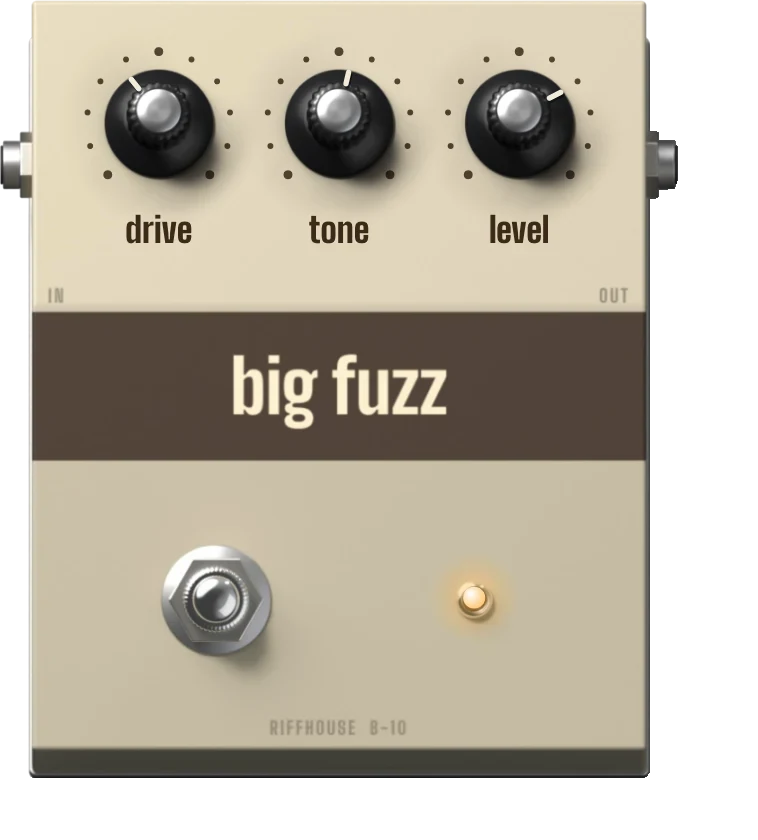
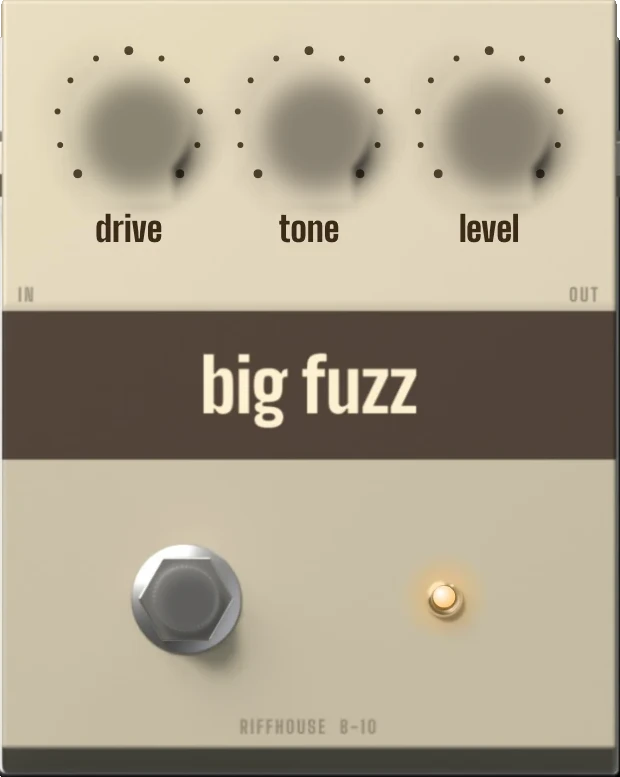
Website: build the first-screen pedal as a real box
The pedal's sides were twelve copies of its picture stacked 36px deep, and
its knobs were painted on, so it looked flat as soon as it turned. It is now a
box with depth: four walls and a back, three knobs and the footswitch standing
up as lit cylinders, jacks on the sides, and an LED that lights with the fuzz.
The footswitch sinks when the pedal is pressed. hero_pedal.py paints the knobs
out of the face and cuts their tops into hero-caps.webp.

The gear tiles tilted toward the pointer as flat pictures too; they now lift.

diff --git a/site/styles.css b/site/styles.css
@@ -23,6 +23,9 @@
   --ash-dark: #57534c;
   --coal: #15100a;
   --field-edge: #77726a;
+  --case: #e9dec4;
+  --case-2: #cdc1a3;
+  --case-3: #a89c80;
 
   --font-display: "Big Shoulders", "Big Shoulders Fallback", "Arial Narrow", sans-serif;
   --font-text: "Instrument Sans", "Segoe UI", "Helvetica Neue", Arial, sans-serif;
@@ -119,25 +122,71 @@ button.btn { border: 0; cursor: pointer; }
 .hero-say .lead { font-weight: 500; max-width: 26em; }
 .defs { position: absolute; }
 .hero-pedal { border: 0; padding: 0; background: none; cursor: pointer; -webkit-tap-highlight-color: transparent; display: block; }
-/* The pedal is a solid object: a face, twelve copies of its shape stacked behind it as sides, light on top, and its dark patch on the page.
+/* The pedal is a real box, in face pixels (--u is one of them): the face is 620 by 777 and the box is
+   223 deep. Knobs, footswitch and jacks are cylinders of twenty strips, lit from the upper left.
    --tx and --ty run from -1 to 1 with the pointer. */
-.hero-pedal { perspective: 1100px; }
-.pedal-in, .pedal-turn, .pedal-body, .pedal-sides { display: block; transform-style: preserve-3d; }
-.pedal-body { position: relative; transform: rotateX(calc(9deg + var(--ty, 0) * -13deg)) rotateY(calc(-17deg + var(--tx, 0) * 17deg)) translateZ(var(--pz, 0px)); transition: transform 260ms var(--ease); }
-.hero-pedal:active .pedal-body, .hero-pedal.is-down .pedal-body { --pz: -26px; transition-duration: 90ms; }
-.pedal-body img { position: relative; display: block; width: 100%; height: auto; }
-.pedal-sides, .slab, .pedal-light, .pedal-ground { position: absolute; inset: 0; pointer-events: none; }
-.slab { background: url(img/hero-side.webp) center / 100% 100% no-repeat; transform: translateZ(calc(var(--k) * -3px)); }
-.slab:nth-child(1) { --k: 1; } .slab:nth-child(2) { --k: 2; } .slab:nth-child(3) { --k: 3; } .slab:nth-child(4) { --k: 4; } .slab:nth-child(5) { --k: 5; } .slab:nth-child(6) { --k: 6; } .slab:nth-child(7) { --k: 7; } .slab:nth-child(8) { --k: 8; } .slab:nth-child(9) { --k: 9; } .slab:nth-child(10) { --k: 10; } .slab:nth-child(11) { --k: 11; } .slab:nth-child(12) { --k: 12; }
-.pedal-light { transform: translateZ(1px); overflow: hidden; -webkit-mask: url(img/hero-pedal.webp) center / 100% 100% no-repeat; mask: url(img/hero-pedal.webp) center / 100% 100% no-repeat; }
+.hero-pedal { perspective: 1300px; container-type: inline-size; }
+.pedal-in, .pedal-turn, .pedal-body, .pedal-box, .pedal-parts, .pd-wall, .pd-cyl { display: block; transform-style: preserve-3d; }
+.pedal-body { --u: calc(100cqw / 620); --d: calc(223 * var(--u)); position: relative; transform: rotateX(calc(14deg + var(--ty, 0) * -16deg)) rotateY(calc(-24deg + var(--tx, 0) * 22deg)) translateZ(var(--pz, 0px)); transition: transform 260ms var(--ease); }
+.hero-pedal:active .pedal-body, .hero-pedal.is-down .pedal-body { --pz: -8px; transition-duration: 90ms; }
+.pedal-body img { position: relative; display: block; width: 100%; height: auto; border-radius: calc(6 * var(--u)); }
+.pedal-box, .pedal-parts, .pedal-light, .pedal-ground { position: absolute; inset: 0; pointer-events: none; }
+.pd-wall, .pd-back { position: absolute; }
+.pd-wall-t, .pd-wall-b { left: 0; right: 0; height: var(--d); }
+.pd-wall-l, .pd-wall-r { top: 0; bottom: 0; width: var(--d); }
+.pd-wall-t { top: 0; transform-origin: 50% 0; transform: rotateX(-90deg); background: var(--case); }
+.pd-wall-b { bottom: 0; transform-origin: 50% 100%; transform: rotateX(90deg); background: var(--case-3); }
+.pd-wall-l { left: 0; transform-origin: 0 50%; transform: rotateY(90deg); background: var(--case-2); }
+.pd-wall-r { right: 0; transform-origin: 100% 50%; transform: rotateY(-90deg); background: var(--case-3); }
+.pd-wall::after { content: ""; position: absolute; background: var(--panel-2); }
+.pd-wall-t::after, .pd-wall-b::after { left: 0; right: 0; height: 13%; }
+.pd-wall-t::after { bottom: 0; } .pd-wall-b::after { top: 0; }
+.pd-wall-l::after, .pd-wall-r::after { top: 0; bottom: 0; width: 13%; }
+.pd-wall-l::after { right: 0; } .pd-wall-r::after { left: 0; }
+.pd-back { inset: 0; transform: translateZ(calc(var(--d) * -1)); background: var(--panel-2); }
+.pd-cyl { position: absolute; left: calc((var(--x) - var(--r)) * var(--u)); top: calc((var(--y) - var(--r)) * var(--u)); width: calc(var(--r) * 2 * var(--u)); aspect-ratio: 1; transform: translateZ(calc(var(--z, 0) * var(--u))); }
+.pd-cyl > i { position: absolute; left: 50%; top: 50%; width: calc(var(--r) * .33 * var(--u)); height: calc(var(--h) * var(--u)); margin-left: calc(var(--r) * -.165 * var(--u)); transform-origin: 50% 0; background: color-mix(in srgb, var(--hi) var(--s), var(--lo)); }
+.pd-cyl > b { position: absolute; inset: 0; border-radius: 50%; transform: translateZ(calc(var(--h) * var(--u))); }
+.pd-knob { --lo: var(--black); --hi: var(--ash-dark); }
+.pd-knob > b { background: var(--black); }
+.pd-knob > b::after { content: ""; position: absolute; left: 50%; top: 3%; width: 4%; height: 22%; margin-left: -2%; border-radius: 2px; background: var(--bone); transform-origin: 50% 214%; rotate: var(--a); }
+.pd-cap { --lo: var(--black); --hi: var(--ash-dark); }
+.pd-cap > b, .pd-stomp > b { background: url(img/hero-caps.webp) calc(var(--i) * 100% / 3) 0 / 400% 100% no-repeat; }
+.pd-stomp { --lo: var(--ash-dark); --hi: var(--bone); transition: transform 90ms var(--ease); }
+.hero-pedal:active .pd-stomp, .hero-pedal.is-down .pd-stomp { transform: translateZ(calc(-14 * var(--u))); }
+.pd-plug { --lo: var(--black); --hi: var(--ash); transform: rotateY(180deg); }
+.pd-plug > b { background: var(--black); border: calc(6 * var(--u)) solid var(--ash); }
+.pd-led { position: absolute; left: calc(431 * var(--u)); top: calc(584 * var(--u)); width: calc(28 * var(--u)); aspect-ratio: 1; border-radius: 50%; background: var(--amber); filter: blur(calc(9 * var(--u))); opacity: .2; transform: translateZ(2px); transition: opacity 120ms var(--ease); }
+.is-fuzz .pd-led { opacity: .9; }
+.pd-cyl > i:nth-child(1) { --s: 8%; transform: rotateZ(0deg) translateY(calc(var(--r) * var(--u))) rotateX(90deg); }
+.pd-cyl > i:nth-child(2) { --s: 8%; transform: rotateZ(18deg) translateY(calc(var(--r) * var(--u))) rotateX(90deg); }
+.pd-cyl > i:nth-child(3) { --s: 8%; transform: rotateZ(36deg) translateY(calc(var(--r) * var(--u))) rotateX(90deg); }
+.pd-cyl > i:nth-child(4) { --s: 8%; transform: rotateZ(54deg) translateY(calc(var(--r) * var(--u))) rotateX(90deg); }
+.pd-cyl > i:nth-child(5) { --s: 27%; transform: rotateZ(72deg) translateY(calc(var(--r) * var(--u))) rotateX(90deg); }
+.pd-cyl > i:nth-child(6) { --s: 46%; transform: rotateZ(90deg) translateY(calc(var(--r) * var(--u))) rotateX(90deg); }
+.pd-cyl > i:nth-child(7) { --s: 63%; transform: rotateZ(108deg) translateY(calc(var(--r) * var(--u))) rotateX(90deg); }
+.pd-cyl > i:nth-child(8) { --s: 73%; transform: rotateZ(126deg) translateY(calc(var(--r) * var(--u))) rotateX(90deg); }
+.pd-cyl > i:nth-child(9) { --s: 78%; transform: rotateZ(144deg) translateY(calc(var(--r) * var(--u))) rotateX(90deg); }
+.pd-cyl > i:nth-child(10) { --s: 75%; transform: rotateZ(162deg) translateY(calc(var(--r) * var(--u))) rotateX(90deg); }
+.pd-cyl > i:nth-child(11) { --s: 66%; transform: rotateZ(180deg) translateY(calc(var(--r) * var(--u))) rotateX(90deg); }
+.pd-cyl > i:nth-child(12) { --s: 51%; transform: rotateZ(198deg) translateY(calc(var(--r) * var(--u))) rotateX(90deg); }
+.pd-cyl > i:nth-child(13) { --s: 32%; transform: rotateZ(216deg) translateY(calc(var(--r) * var(--u))) rotateX(90deg); }
+.pd-cyl > i:nth-child(14) { --s: 11%; transform: rotateZ(234deg) translateY(calc(var(--r) * var(--u))) rotateX(90deg); }
+.pd-cyl > i:nth-child(15) { --s: 8%; transform: rotateZ(252deg) translateY(calc(var(--r) * var(--u))) rotateX(90deg); }
+.pd-cyl > i:nth-child(16) { --s: 8%; transform: rotateZ(270deg) translateY(calc(var(--r) * var(--u))) rotateX(90deg); }
+.pd-cyl > i:nth-child(17) { --s: 8%; transform: rotateZ(288deg) translateY(calc(var(--r) * var(--u))) rotateX(90deg); }
+.pd-cyl > i:nth-child(18) { --s: 8%; transform: rotateZ(306deg) translateY(calc(var(--r) * var(--u))) rotateX(90deg); }
+.pd-cyl > i:nth-child(19) { --s: 8%; transform: rotateZ(324deg) translateY(calc(var(--r) * var(--u))) rotateX(90deg); }
+.pd-cyl > i:nth-child(20) { --s: 8%; transform: rotateZ(342deg) translateY(calc(var(--r) * var(--u))) rotateX(90deg); }
+.pedal-light { transform: translateZ(1px); overflow: hidden; border-radius: calc(6 * var(--u)); }
 .pedal-light::before { content: ""; position: absolute; left: 10%; top: 0; width: 80%; aspect-ratio: 1; border-radius: 50%; background: var(--bone); opacity: .2; filter: blur(48px); translate: calc(var(--tx, 0) * -55%) calc(var(--ty, 0) * -45%); transition: translate 260ms var(--ease); }
-.pedal-ground { background: url(img/hero-side.webp) center / 100% 100% no-repeat; filter: brightness(0) blur(20px); opacity: .4; translate: calc(7% + var(--tx, 0) * -4%) calc(8% + var(--ty, 0) * -4%); transition: translate 260ms var(--ease), scale 160ms var(--ease), opacity 160ms var(--ease); }
-.hero-pedal:active .pedal-ground, .hero-pedal.is-down .pedal-ground { scale: .96; opacity: .55; translate: 4% 5%; }
+.pedal-ground { inset: 6% 2% 0 8%; border-radius: 10%; background: var(--black); filter: blur(26px); opacity: .5; translate: calc(10% + var(--tx, 0) * -5%) calc(10% + var(--ty, 0) * -4%); transition: translate 260ms var(--ease), scale 160ms var(--ease), opacity 160ms var(--ease); }
+.hero-pedal:active .pedal-ground, .hero-pedal.is-down .pedal-ground { scale: .98; opacity: .58; }
 .stomp-say { font-size: var(--t-small); font-weight: 500; }
 .is-fuzz .hero h1, .is-fuzz .monument { filter: url(#fuzz); }
 .is-fuzz h2, .is-fuzz .num { filter: url(#fuzz-s); }
 .is-fuzz .close h2 { filter: none; }
-.hero-pedal { position: absolute; z-index: 0; width: min(calc((100% - 2 * var(--g)) * .4), 62svh, 640px); right: calc(var(--g) + 40px); top: calc(var(--top) + var(--h1) * .92 + 24px); rotate: -6deg; transform-origin: 50% 60%; }
+.hero-pedal { position: absolute; z-index: 0; width: min(calc((100% - 2 * var(--g)) * .27), 46svh, 470px); right: calc(var(--g) + 90px); top: calc(var(--top) + var(--h1) * .92 + 24px); rotate: -6deg; transform-origin: 50% 60%; }
 
 /* The mic jack */
 .jack-grid { display: grid; grid-template-columns: repeat(12, minmax(0, 1fr)); column-gap: var(--gap); row-gap: clamp(48px, 6vw, 96px); align-items: end; }
@@ -317,7 +366,7 @@ details:not([open]) > p { display: none; }
   .rail-row { grid-template-columns: repeat(5, minmax(0, 1fr)); }
   .hero { min-height: 100svh; padding-bottom: 0; }
   .hero-say { margin-top: 20px; padding-top: 0; gap: 20px; }
-  .hero-pedal { position: relative; order: 3; top: auto; right: auto; width: min(74vw, 44svh); margin: 36px auto -30%; rotate: -5deg; }
+  .hero-pedal { position: relative; order: 3; top: auto; right: auto; width: min(60vw, 36svh); margin: 48px auto -24%; rotate: -5deg; }
   .tone-list { grid-template-columns: repeat(2, minmax(0, 1fr)); }
   .amp-row { grid-template-columns: repeat(3, minmax(0, 1fr)); }
   .faq-head, .faq-list { grid-column: 1 / -1; }
@@ -378,7 +427,7 @@ details:not([open]) > p { display: none; }
   html.js [data-reveal="rise"]:not(.is-in) h2 { transform: perspective(900px) translateY(40%) rotateX(-72deg); }
   html.js [data-reveal="pop"] > li { transition: transform 620ms var(--ease); transition-delay: calc(var(--i, 0) * 45ms); }
   html.js [data-reveal="pop"]:not(.is-in) > li { transform: translateY(36px) scale(.93); }
-  .rail-row img, .amp-row img { transition: transform 240ms var(--ease); transform: perspective(700px) rotateX(calc(var(--gy, 0) * -16deg)) rotateY(calc(var(--gx, 0) * 20deg)) translateY(var(--up, 0px)) scale(var(--big, 1)); }
+  .rail-row img, .amp-row img { transition: transform 240ms var(--ease); transform: translateY(var(--up, 0px)) rotate(var(--rot, 0deg)) scale(var(--big, 1)); }
   .pan:not([hidden]) { animation: pan-in 380ms var(--ease) both; }
   .rail-row li.is-hit img, .amp-row li.is-hit img { animation: hit 260ms var(--ease); }
   .rail-row li:not(.rail-own), .amp-row li:not(.rail-own) { cursor: pointer; }
@@ -396,7 +445,8 @@ details:not([open]) > p { display: none; }
 
   @media (hover: hover) and (pointer: fine) {
     .hero h1 { translate: calc(var(--tx, 0) * -12px) calc(var(--ty, 0) * -7px); transition: translate 420ms var(--ease); }
-    .rail-row li:not(.rail-own):hover, .amp-row li:not(.rail-own):hover { --up: -10px; --big: 1.07; }
+    .rail-row li:not(.rail-own):hover, .amp-row li:not(.rail-own):hover { --up: -12px; --big: 1.06; }
+    .rail-row li:not(.rail-own):hover { --rot: -2deg; }
   }
   @supports (animation-timeline: view()) {
     .hero-pedal { animation: pedal-in 320ms var(--ease) 200ms both, drift linear both; animation-timeline: auto, scroll(root); animation-range: normal, 0 100svh; }

diff --git a/site/index.html b/site/index.html
@@ -51,9 +51,20 @@
   <button class="hero-pedal" type="button" data-stomp aria-pressed="false">
     <span class="pedal-ground" aria-hidden="true"></span>
     <span class="pedal-in"><span class="pedal-turn"><span class="pedal-body">
-      <span class="pedal-sides" aria-hidden="true"><span class="slab"></span><span class="slab"></span><span class="slab"></span><span class="slab"></span><span class="slab"></span><span class="slab"></span><span class="slab"></span><span class="slab"></span><span class="slab"></span><span class="slab"></span><span class="slab"></span><span class="slab"></span></span>
-      <img src="img/hero-pedal.webp" width="758" height="840" alt="The Big Fuzz pedal from Riffhouse. Press it to switch the fuzz on." fetchpriority="high">
+      <span class="pedal-box" aria-hidden="true">
+        <span class="pd-wall pd-wall-t"></span><span class="pd-wall pd-wall-b"></span>
+        <span class="pd-wall pd-wall-l"><span class="pd-cyl pd-plug" style="--x: 72; --y: 164; --r: 19; --h: 30;"><i></i><i></i><i></i><i></i><i></i><i></i><i></i><i></i><i></i><i></i><i></i><i></i><i></i><i></i><i></i><i></i><i></i><i></i><i></i><i></i><b></b></span></span><span class="pd-wall pd-wall-r"><span class="pd-cyl pd-plug" style="--x: 72; --y: 164; --r: 19; --h: 30;"><i></i><i></i><i></i><i></i><i></i><i></i><i></i><i></i><i></i><i></i><i></i><i></i><i></i><i></i><i></i><i></i><i></i><i></i><i></i><i></i><b></b></span></span>
+        <span class="pd-back"></span>
+      </span>
+      <img src="img/hero-pedal.webp" width="620" height="777" alt="The Big Fuzz pedal from Riffhouse. Press it to switch the fuzz on." fetchpriority="high">
       <span class="pedal-light" aria-hidden="true"></span>
+      <span class="pedal-parts" aria-hidden="true">
+        <span class="pd-cyl pd-knob" style="--x: 129; --y: 123; --r: 54; --h: 30; --a: -32deg;"><i></i><i></i><i></i><i></i><i></i><i></i><i></i><i></i><i></i><i></i><i></i><i></i><i></i><i></i><i></i><i></i><i></i><i></i><i></i><i></i><b></b><span class="pd-cyl pd-cap" style="--x: 54; --y: 54; --r: 32; --h: 22; --z: 30; --i: 0;"><i></i><i></i><i></i><i></i><i></i><i></i><i></i><i></i><i></i><i></i><i></i><i></i><i></i><i></i><i></i><i></i><i></i><i></i><i></i><i></i><b></b></span></span>
+        <span class="pd-cyl pd-knob" style="--x: 309; --y: 123; --r: 54; --h: 30; --a: 7deg;"><i></i><i></i><i></i><i></i><i></i><i></i><i></i><i></i><i></i><i></i><i></i><i></i><i></i><i></i><i></i><i></i><i></i><i></i><i></i><i></i><b></b><span class="pd-cyl pd-cap" style="--x: 54; --y: 54; --r: 32; --h: 22; --z: 30; --i: 1;"><i></i><i></i><i></i><i></i><i></i><i></i><i></i><i></i><i></i><i></i><i></i><i></i><i></i><i></i><i></i><i></i><i></i><i></i><i></i><i></i><b></b></span></span>
+        <span class="pd-cyl pd-knob" style="--x: 489; --y: 123; --r: 54; --h: 30; --a: 47deg;"><i></i><i></i><i></i><i></i><i></i><i></i><i></i><i></i><i></i><i></i><i></i><i></i><i></i><i></i><i></i><i></i><i></i><i></i><i></i><i></i><b></b><span class="pd-cyl pd-cap" style="--x: 54; --y: 54; --r: 32; --h: 22; --z: 30; --i: 2;"><i></i><i></i><i></i><i></i><i></i><i></i><i></i><i></i><i></i><i></i><i></i><i></i><i></i><i></i><i></i><i></i><i></i><i></i><i></i><i></i><b></b></span></span>
+        <span class="pd-cyl pd-stomp" style="--x: 185; --y: 598; --r: 33; --h: 24; --i: 3;"><i></i><i></i><i></i><i></i><i></i><i></i><i></i><i></i><i></i><i></i><i></i><i></i><i></i><i></i><i></i><i></i><i></i><i></i><i></i><i></i><b></b></span>
+        <span class="pd-led"></span>
+      </span>
     </span></span></span>
   </button>
   <svg class="defs" width="0" height="0" aria-hidden="true" focusable="false"><filter id="fuzz" x="-4%" y="-12%" width="108%" height="124%"><feImage href="img/noise.webp" x="0" y="0" width="100%" height="100%" preserveAspectRatio="none" result="n"/><feDisplacementMap in="SourceGraphic" in2="n" scale="0" xChannelSelector="R" yChannelSelector="G"/></filter><filter id="fuzz-s" x="-4%" y="-12%" width="108%" height="124%"><feImage href="img/noise.webp" x="0" y="0" width="100%" height="100%" preserveAspectRatio="none" result="n"/><feDisplacementMap in="SourceGraphic" in2="n" scale="0" xChannelSelector="R" yChannelSelector="G"/></filter></svg>

diff --git a/site/app.js b/site/app.js
@@ -291,24 +291,6 @@
       });
       word.addEventListener('pointerleave', () => letters.forEach((l) => l.style.setProperty('--lift', '0%')));
     }
-    /* Pedals and amps turn their face toward the pointer */
-    $$('.rail-row, .amp-row').forEach((row) => {
-      let on = null, wait = false;
-      const rest = () => { if (on) { on.style.removeProperty('--gx'); on.style.removeProperty('--gy'); on = null; } };
-      row.addEventListener('pointermove', (e) => {
-        const li = e.target.closest('li:not(.rail-own)');
-        if (li !== on) rest();
-        if (!li || wait) return;
-        on = li; wait = true;
-        requestAnimationFrame(() => {
-          wait = false;
-          const r = li.getBoundingClientRect();
-          li.style.setProperty('--gx', (((e.clientX - r.left) / r.width - 0.5) * 2).toFixed(2));
-          li.style.setProperty('--gy', (((e.clientY - r.top) / r.height - 0.5) * 2).toFixed(2));
-        });
-      });
-      row.addEventListener('pointerleave', rest);
-    });
     $$('.hero .btn, .get .btn').forEach((btn) => {
       btn.addEventListener('pointermove', (e) => {
         const r = btn.getBoundingClientRect();

diff --git a/tools/site/hero_pedal.py b/tools/site/hero_pedal.py
@@ -1,33 +1,80 @@
-"""Make the two pictures the first screen's pedal is built from.
+"""Make the pictures the first screen's pedal is built from.
 
-The gear cutouts carry their own soft shadow. The first screen draws the pedal as a solid
-object that turns, so it needs the face without that shadow (the page casts its own), and a
-darker copy of the same shape that is stacked behind the face to give the pedal its sides.
+The first screen draws the pedal as a real box: a face, four walls and a back, with knobs and
+a footswitch that stand up off the face as cylinders. So it needs:
+
+  hero-pedal.webp  the face alone, cut to the metal, with the knobs and the footswitch's top
+                   painted out (they are built in 3D on top of it, so a flat copy must not show)
+  hero-caps.webp   the tops of the three knobs and of the footswitch, round, side by side
 
     python3 tools/site/hero_pedal.py            # reads site/img/gear/drive-5.webp
+
+Measured on drive-5.webp (758 x 840). The page's CSS uses the same numbers, in face pixels.
 """
 from pathlib import Path
 
 import numpy as np
-from PIL import Image, ImageEnhance
+from PIL import Image, ImageFilter
 
 SITE = Path(__file__).resolve().parents[2] / "site" / "img"
+BODY = (30, 1, 650, 778)                      # the metal box, without the jacks and shadow
+KNOBS = [(159, 124), (339, 124), (519, 124)]  # skirt centres; skirt radius 54
+KNOB_CAP = (-1, -7, 32)                       # the knurled cap sits up and left of the skirt centre
+STOMP = (215, 599, 33)                        # footswitch top, inside its hex nut
+
+
+def fill(img, mask):
+    """Paint out the masked pixels with the plain face around them (tick dots left out)."""
+    out = img.copy()
+    yy, xx = np.nonzero(mask)
+    ring = np.zeros_like(mask)
+    ring[max(yy.min() - 6, 0):yy.max() + 7, max(xx.min() - 6, 0):xx.max() + 7] = True
+    ring &= ~mask
+    near = img[ring][:, :3].astype(int)
+    plain = near[near.sum(axis=1) > np.percentile(near.sum(axis=1), 40)]
+    soft = np.array(Image.fromarray((mask * 255).astype(np.uint8)).filter(ImageFilter.GaussianBlur(3))) / 255
+    out[..., :3] = (img[..., :3] * (1 - soft[..., None]) + np.median(plain, axis=0) * soft[..., None]).astype(np.uint8)
+    return out
+
+
+def contact(img, cx, cy, r, dx, dy, depth):
+    """The soft dark patch a part standing on the face leaves below and right of itself."""
+    yy, xx = np.mgrid[:img.shape[0], :img.shape[1]]
+    spot = (np.hypot(xx - cx - dx, yy - cy - dy) < r).astype(np.uint8) * 255
+    spot = np.array(Image.fromarray(spot).filter(ImageFilter.GaussianBlur(r * .22))) / 255 * depth
+    out = img.copy()
+    out[..., :3] = (img[..., :3] * (1 - spot[..., None])).astype(np.uint8)
+    return out
+
+
+def disc(img, cx, cy, r):
+    crop = Image.fromarray(img[cy - r:cy + r, cx - r:cx + r])
+    yy, xx = np.mgrid[:2 * r, :2 * r] + 0.5
+    edge = np.clip(r - np.hypot(xx - r, yy - r), 0, 1)
+    crop.putalpha(Image.fromarray((edge * 255).astype(np.uint8)))
+    return crop.resize((128, 128), Image.LANCZOS)
 
 
 def main(source="gear/drive-5.webp"):
-    cut = np.array(Image.open(SITE / source).convert("RGBA"))
-    # the shadow is the only part that is both black and see-through
-    shadow = (cut[..., :3].max(axis=2) < 14) & (cut[..., 3] < 252)
-    cut[shadow, 3] = 0
-    face = Image.fromarray(cut)
-    face.save(SITE / "hero-pedal.webp", quality=88, method=6)
+    src = np.array(Image.open(SITE / source).convert("RGBA"))
+    yy, xx = np.mgrid[:src.shape[0], :src.shape[1]]
+    face = src
+    for cx, cy in KNOBS:                                              # one at a time, so rows
+        face = fill(face, (np.hypot(xx - cx, yy - cy) < 62)           # never bridge two knobs
+                    | ((abs(xx - cx) < 44) & (yy > cy) & (yy < 206)))  # skirt and its shadow
+        face = contact(face, cx, cy, 56, 9, 12, .38)
+    face = fill(face, np.hypot(xx - STOMP[0], yy - STOMP[1]) < STOMP[2] + 1)
+    face = contact(face, STOMP[0], STOMP[1], STOMP[2], 5, 7, .3)
+    face = face[BODY[1]:BODY[3], BODY[0]:BODY[2]].copy()
+    face[..., 3] = np.maximum(face[..., 3], 255 * (face[..., 3] > 40))
+    Image.fromarray(face).save(SITE / "hero-pedal.webp", quality=90, method=6)
 
-    side = face.resize((face.width // 2, face.height // 2), Image.LANCZOS)
-    alpha = side.getchannel("A")
-    side = ImageEnhance.Brightness(side.convert("RGB")).enhance(0.7).convert("RGBA")
-    side.putalpha(alpha)
-    side.save(SITE / "hero-side.webp", quality=60, method=6)
-    for name in ("hero-pedal.webp", "hero-side.webp"):
+    caps = Image.new("RGBA", (512, 128))
+    for i, (cx, cy) in enumerate(KNOBS):
+        caps.paste(disc(src, cx + KNOB_CAP[0], cy + KNOB_CAP[1], KNOB_CAP[2]), (128 * i, 0))
+    caps.paste(disc(src, *STOMP), (384, 0))
+    caps.save(SITE / "hero-caps.webp", quality=88, method=6)
+    for name in ("hero-pedal.webp", "hero-caps.webp"):
         print(name, (SITE / name).stat().st_size // 1024, "KB")
 
 
